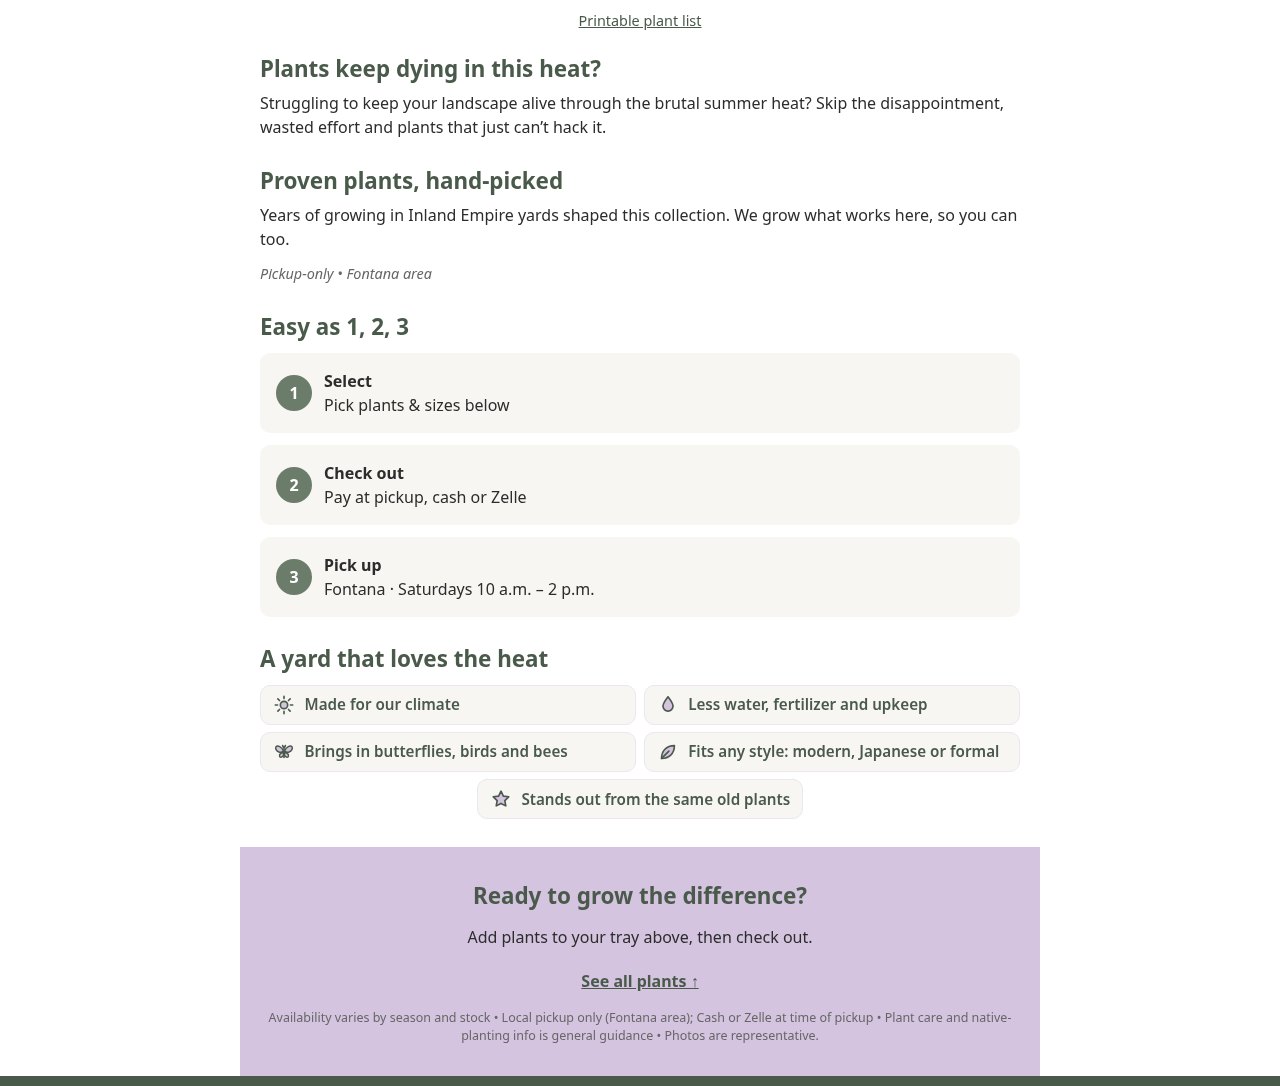
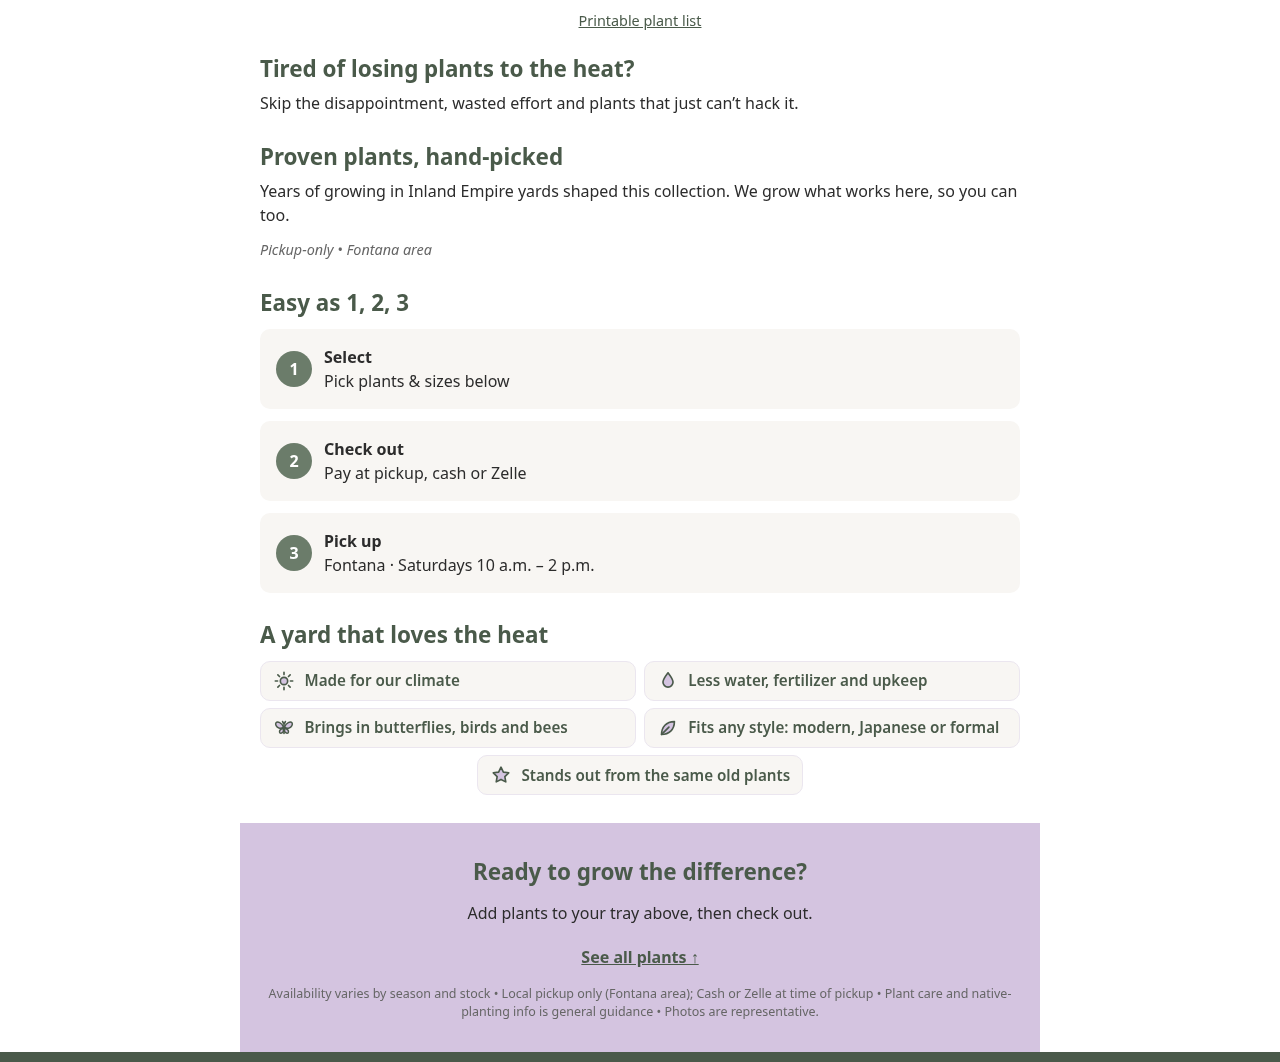
Story heading: 'Tired of losing plants to the heat?' + shorter body (Eric's pick, alternate a)

diff --git a/index.html b/index.html
@@ -369,8 +369,8 @@
   </div>
 
   <section class="problem">
-    <h2>Plants keep dying in this heat?</h2>
-    <p>Struggling to keep your landscape alive through the brutal summer heat? Skip the disappointment, wasted effort and plants that just can’t hack it.</p>
+    <h2>Tired of losing plants to the heat?</h2>
+    <p>Skip the disappointment, wasted effort and plants that just can’t hack it.</p>
   </section>
 
   <section class="guide">
